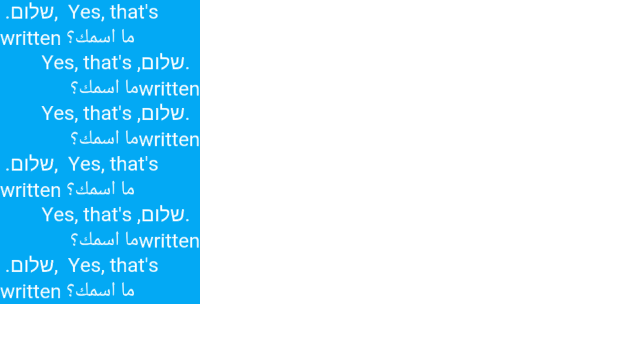
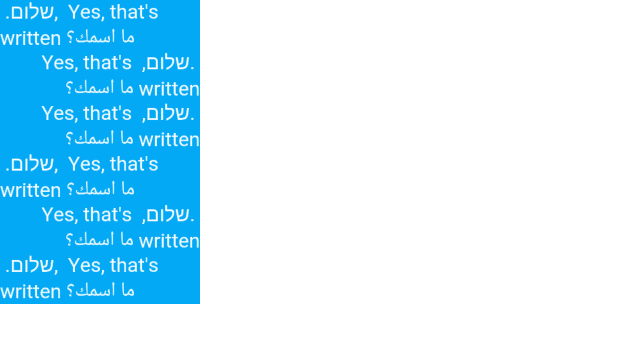
Include all non-collapsed text when creating glyph buffer
Previously, the leading whitespace was not included in what was passed
to the glyph buffer and an offset was simply applied to the text node
to skip over it. However, this does not work properly in the case where
the text is RTL and trailing whitespace, rather than leading whitespace,
should dictate whether or not an offset is applied. Given that there are
additional complicating cases when dealing with truncated RTL text, I've
decided that the cleanest solution is to simply include all
non-collapsed, visible text in what is passed to the text shaper. The
text shaper already handles bidirectional text internally and skips over
spaces without adding glyphs for them, so doing this does not add to the
generated glyph buffer size. This allows the text box to treat all cases
the same.

Updated layout tests to test for this case.

diff --git a/cobalt/layout_tests/testdata/bidi/whitespace-should-be-handled-properly-with-bidirectional-text.html b/cobalt/layout_tests/testdata/bidi/whitespace-should-be-handled-properly-with-bidirectional-text.html
@@ -21,7 +21,14 @@
 </head>
 <body>
   <div class="containing-block">
-    <span> 1234 ط1لتدل </span>
+    <div dir="ltr">testع test</div>
+    <div dir="rtl">testع test</div>
+    <div dir="ltr"><span>testع test</span></div>
+    <div dir="rtl"><span>testع test</span></div>
+    <div dir="ltr"> 1234 ط1لتدل </div>
+    <div dir="rtl"> 1234 ط1لتدل </div>
+    <div dir="ltr"><span> 1234 ط1لتدل </span></div>
+    <div dir="rtl"><span> 1234 ط1لتدل </span></div>
   </div>
 </body>
 </html>

diff --git a/cobalt/layout_tests/testdata/bidi/directional-stack-should-be-restored-following-nested-paragraph.html b/cobalt/layout_tests/testdata/bidi/directional-stack-should-be-restored-following-nested-paragraph.html
@@ -10,6 +10,7 @@
  -->
 <html>
 <head>
+  <meta charset="utf-8">
   <style>
     body {
       margin: 0px;

diff --git a/cobalt/layout_tests/testdata/bidi/containing-block-should-not-inherit-directionality-from-nested-block-box.html b/cobalt/layout_tests/testdata/bidi/containing-block-should-not-inherit-directionality-from-nested-block-box.html
@@ -7,6 +7,7 @@
  -->
 <html>
 <head>
+  <meta charset="utf-8">
   <style>
     body {
       margin: 0px;

diff --git a/cobalt/layout_tests/testdata/bidi/inline-container-blocks-should-not-impact-directionality-of-containing-block.html b/cobalt/layout_tests/testdata/bidi/inline-container-blocks-should-not-impact-directionality-of-containing-block.html
@@ -7,6 +7,7 @@
  -->
 <html>
 <head>
+  <meta charset="utf-8">
   <style>
     body {
       margin: 0px;

diff --git a/cobalt/layout_tests/testdata/bidi/line-boxes-should-use-containing-block-direction-for-inline-base-direction.html b/cobalt/layout_tests/testdata/bidi/line-boxes-should-use-containing-block-direction-for-inline-base-direction.html
@@ -8,6 +8,7 @@
  -->
 <html>
 <head>
+  <meta charset="utf-8">
   <style>
     body {
       margin: 0px;

diff --git a/cobalt/layout_tests/testdata/bidi/nested-block-boxes-should-inherit-directionality-from-containing-block.html b/cobalt/layout_tests/testdata/bidi/nested-block-boxes-should-inherit-directionality-from-containing-block.html
@@ -7,6 +7,7 @@
  -->
 <html>
 <head>
+  <meta charset="utf-8">
   <style>
     body {
       margin: 0px;

diff --git a/cobalt/layout/text_box.cc b/cobalt/layout/text_box.cc
@@ -323,16 +323,16 @@ void TextBox::RenderAndAnimateContent(
   DCHECK_EQ(0, border_left_width() + padding_left());
   DCHECK_EQ(0, border_top_width() + padding_top());
 
-  // Only add the text node to the render tree if it actually has content and
-  // a font isn't loading. The font is treated as transparent if a font is
-  // currently being downloaded and hasn't timed out: "In cases where textual
-  // content is loaded before downloadable fonts are available, user agents
-  // may... render text transparently with fallback fonts to avoid a flash of
-  // text using a fallback font. In cases where the font download fails user
-  // agents must display text, simply leaving transparent text is considered
-  // non-conformant behavior."
+  // Only add the text node to the render tree if it actually has visible
+  // content that isn't simply collapsible whitespace and a font isn't loading.
+  // The font is treated as transparent if a font is currently being downloaded
+  // and hasn't timed out: "In cases where textual content is loaded before
+  // downloadable fonts are available, user agents may... render text
+  // transparently with fallback fonts to avoid a flash of text using a fallback
+  // font. In cases where the font download fails user agents must display text,
+  // simply leaving transparent text is considered non-conformant behavior."
   //   https://www.w3.org/TR/css3-fonts/#font-face-loading
-  if (HasVisibleText() && used_font_->IsVisible()) {
+  if (HasNonCollapsibleText() && HasVisibleText() && used_font_->IsVisible()) {
     bool is_color_animated =
         animations()->IsPropertyAnimated(cssom::kColorProperty);
 
@@ -345,16 +345,14 @@ void TextBox::RenderAndAnimateContent(
     // color is animated, in which case it could become non-transparent.
     if (used_color.a() > 0.0f || is_color_animated ||
         text_shadow != cssom::KeywordValue::GetNone()) {
-      int32 text_start_position = GetNonCollapsibleTextStartPosition();
+      int32 text_start_position = GetNonCollapsedTextStartPosition();
       scoped_refptr<render_tree::GlyphBuffer> glyph_buffer =
           used_font_->CreateGlyphBuffer(
               paragraph_->GetTextBuffer() + text_start_position,
               GetVisibleTextLength(), paragraph_->IsRTL(text_start_position));
 
       render_tree::TextNode::Builder text_node_builder(
-          math::Vector2dF(
-              truncated_text_offset_from_left_ + GetLeadingWhiteSpaceWidth(),
-              ascent_),
+          math::Vector2dF(truncated_text_offset_from_left_, ascent_),
           glyph_buffer, used_color);
 
       if (text_shadow != cssom::KeywordValue::GetNone()) {
@@ -603,18 +601,18 @@ std::string TextBox::GetNonCollapsibleText() const {
 }
 
 int32 TextBox::GetVisibleTextEndPosition() const {
-  return std::min(GetNonCollapsibleTextEndPosition(),
+  return std::min(GetNonCollapsedTextEndPosition(),
                   truncated_text_end_position_);
 }
 
 int32 TextBox::GetVisibleTextLength() const {
-  return GetVisibleTextEndPosition() - GetNonCollapsibleTextStartPosition();
+  return GetVisibleTextEndPosition() - GetNonCollapsedTextStartPosition();
 }
 
 bool TextBox::HasVisibleText() const { return GetVisibleTextLength() > 0; }
 
 std::string TextBox::GetVisibleText() const {
-  return paragraph_->RetrieveUtf8SubString(GetNonCollapsibleTextStartPosition(),
+  return paragraph_->RetrieveUtf8SubString(GetNonCollapsedTextStartPosition(),
                                            GetVisibleTextEndPosition(),
                                            Paragraph::kVisualTextOrder);
 }
